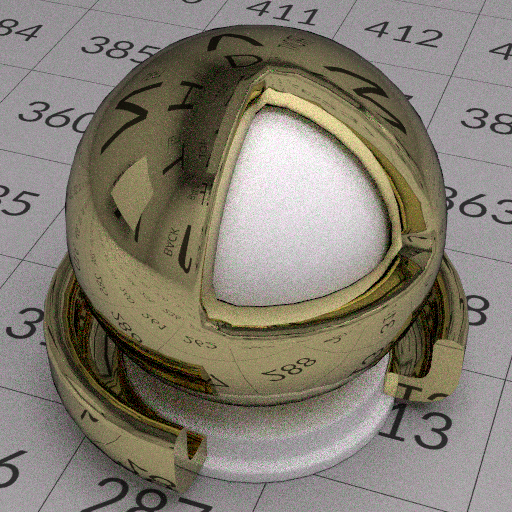
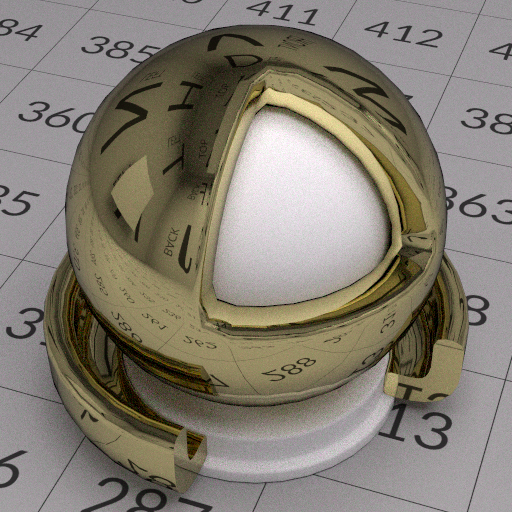
feat(render): expose progressive quality settings

diff --git a/src/hydra/render_pass.cpp b/src/hydra/render_pass.cpp
@@ -3,6 +3,7 @@
 #include "render_buffer.h"
 
 #include "pxr/imaging/hd/renderPassState.h"
+#include "pxr/imaging/hd/renderDelegate.h"
 #include "pxr/imaging/hd/tokens.h"
 #include "pxr/base/gf/matrix4d.h"
 #include "pxr/base/gf/vec3d.h"
@@ -67,9 +68,11 @@ std::vector<float> UpscaleNearest(
 
 HdCodexRenderPass::HdCodexRenderPass(HdRenderIndex* index,
                                      const HdRprimCollection& collection,
+                                     HdRenderDelegate* renderDelegate,
                                      hdcodex::VersionedScene* scene,
                                      hdcodex::VulkanPathTracer* pathTracer)
-    : HdRenderPass(index, collection), _scene(scene), _pathTracer(pathTracer)
+    : HdRenderPass(index, collection), _renderDelegate(renderDelegate),
+      _scene(scene), _pathTracer(pathTracer)
 {
 }
 
@@ -83,7 +86,25 @@ bool HdCodexRenderPass::IsConverged() const
 void HdCodexRenderPass::_Execute(const HdRenderPassStateSharedPtr& renderPassState,
                                  const TfTokenVector& /*renderTags*/)
 {
-    constexpr unsigned int targetSamples = 32;
+    const unsigned int settingsVersion = _renderDelegate
+        ? _renderDelegate->GetRenderSettingsVersion() : 0U;
+    const unsigned int targetSamples = static_cast<unsigned int>(std::clamp(
+        _renderDelegate
+            ? _renderDelegate->GetRenderSetting<int>(
+                TfToken("samplesPerPixel"), 128)
+            : 128,
+        1, 4096));
+    const unsigned int productionBounces = static_cast<unsigned int>(std::clamp(
+        _renderDelegate
+            ? _renderDelegate->GetRenderSetting<int>(TfToken("maxBounces"), 8)
+            : 8,
+        1, 12));
+    const unsigned int samplesPerUpdate = static_cast<unsigned int>(std::clamp(
+        _renderDelegate
+            ? _renderDelegate->GetRenderSetting<int>(
+                TfToken("samplesPerUpdate"), 8)
+            : 8,
+        1, 64));
     const auto revision = _scene->PublishedRevision();
     const hdcodex::PathTracerCamera camera = MakeCamera(renderPassState);
     HdCodexRenderBuffer* colorBuffer = nullptr;
@@ -115,6 +136,7 @@ void HdCodexRenderPass::_Execute(const HdRenderPassStateSharedPtr& renderPassSta
     const unsigned int height = colorBuffer->GetHeight();
     const bool cameraChanged = _hasCamera && !(camera == _lastCamera);
     const bool reset = _lastRevision != revision || !_hasCamera ||
+        _lastSettingsVersion != settingsVersion ||
         cameraChanged || width != _lastWidth || height != _lastHeight;
     if (reset) {
         try {
@@ -147,12 +169,11 @@ void HdCodexRenderPass::_Execute(const HdRenderPassStateSharedPtr& renderPassSta
     } else if (_pathTracer->HasGeometry() && width > 0 && height > 0 &&
                _sampleIndex < targetSamples) {
         try {
-            constexpr unsigned int samplesPerDispatch = 8U;
             const unsigned int sampleCount = std::min(
-                samplesPerDispatch, targetSamples - _sampleIndex);
+                samplesPerUpdate, targetSamples - _sampleIndex);
             colorBuffer->WriteFloat4(
                 _pathTracer->Render(camera, width, height, _sampleIndex,
-                                    8U, sampleCount));
+                                    productionBounces, sampleCount));
             _sampleIndex += sampleCount;
         } catch (const std::exception& error) {
             TF_WARN("hdCodex Vulkan path trace failed: %s", error.what());
@@ -175,6 +196,7 @@ void HdCodexRenderPass::_Execute(const HdRenderPassStateSharedPtr& renderPassSta
     _lastHeight = height;
     _hasCamera = true;
     _lastRevision = revision;
+    _lastSettingsVersion = settingsVersion;
 }
 
 PXR_NAMESPACE_CLOSE_SCOPE

diff --git a/src/hydra/render_delegate.cpp b/src/hydra/render_delegate.cpp
@@ -19,6 +19,9 @@
 #include "pxr/imaging/hd/resourceRegistry.h"
 #include "pxr/imaging/hd/tokens.h"
 
+#include <algorithm>
+#include <cstdlib>
+
 PXR_NAMESPACE_OPEN_SCOPE
 namespace {
 
@@ -31,6 +34,16 @@ const TfTokenVector SupportedSprims = {
     HdPrimTypeTokens->extComputation,
 };
 const TfTokenVector SupportedBprims = {HdPrimTypeTokens->renderBuffer};
+
+int EnvironmentInteger(const char* name, int fallback, int minimum, int maximum)
+{
+    const char* value = std::getenv(name);
+    if (!value || !*value) return fallback;
+    char* end = nullptr;
+    const long parsed = std::strtol(value, &end, 10);
+    if (!end || *end != '\0') return fallback;
+    return std::clamp(static_cast<int>(parsed), minimum, maximum);
+}
 
 } // namespace
 
@@ -45,6 +58,15 @@ HdCodexRenderDelegate::~HdCodexRenderDelegate() = default;
 
 void HdCodexRenderDelegate::Initialize(const HdRenderSettingsMap& settingsMap)
 {
+    HdRenderDelegate::SetRenderSetting(
+        TfToken("samplesPerPixel"), VtValue(EnvironmentInteger(
+            "HDCODEX_SAMPLES_PER_PIXEL", 128, 1, 4096)));
+    HdRenderDelegate::SetRenderSetting(
+        TfToken("maxBounces"), VtValue(EnvironmentInteger(
+            "HDCODEX_MAX_BOUNCES", 8, 1, 12)));
+    HdRenderDelegate::SetRenderSetting(
+        TfToken("samplesPerUpdate"), VtValue(EnvironmentInteger(
+            "HDCODEX_SAMPLES_PER_UPDATE", 8, 1, 64)));
 #if defined(HDCODEX_HAS_VULKAN)
     _vulkan = std::make_unique<hdcodex::VulkanContext>();
 #endif
@@ -76,7 +98,7 @@ HdRenderPassSharedPtr HdCodexRenderDelegate::CreateRenderPass(
     HdRenderIndex* index, const HdRprimCollection& collection)
 {
     return std::make_shared<HdCodexRenderPass>(
-        index, collection, &_scene,
+        index, collection, this, &_scene,
 #if defined(HDCODEX_HAS_VULKAN)
         _pathTracer.get()
 #else
@@ -164,6 +186,16 @@ HdAovDescriptor HdCodexRenderDelegate::GetDefaultAovDescriptor(const TfToken& na
         return {HdFormatFloat32, false, VtValue(1.0F)};
     }
     return {};
+}
+
+HdRenderSettingDescriptorList
+HdCodexRenderDelegate::GetRenderSettingDescriptors() const
+{
+    return {
+        {"Samples per Pixel", TfToken("samplesPerPixel"), VtValue(128)},
+        {"Maximum Bounces", TfToken("maxBounces"), VtValue(8)},
+        {"Samples per Update", TfToken("samplesPerUpdate"), VtValue(8)},
+    };
 }
 
 PXR_NAMESPACE_CLOSE_SCOPE

diff --git a/src/hydra/render_pass.h b/src/hydra/render_pass.h
@@ -12,6 +12,7 @@ class HDCODEX_API HdCodexRenderPass final : public HdRenderPass {
 public:
     HdCodexRenderPass(HdRenderIndex* index,
                       const HdRprimCollection& collection,
+                      HdRenderDelegate* renderDelegate,
                       hdcodex::VersionedScene* scene,
                       hdcodex::VulkanPathTracer* pathTracer);
     ~HdCodexRenderPass() override;
@@ -23,6 +24,7 @@ protected:
                   const TfTokenVector& renderTags) override;
 
 private:
+    HdRenderDelegate* _renderDelegate;
     hdcodex::VersionedScene* _scene;
     hdcodex::VulkanPathTracer* _pathTracer;
     hdcodex::VersionedScene::Revision _lastRevision{~hdcodex::VersionedScene::Revision{0}};
@@ -30,6 +32,7 @@ private:
     unsigned int _lastWidth{0};
     unsigned int _lastHeight{0};
     unsigned int _sampleIndex{0};
+    unsigned int _lastSettingsVersion{~0U};
     bool _hasCamera{false};
     bool _converged{false};
 };

diff --git a/src/hydra/render_delegate.h b/src/hydra/render_delegate.h
@@ -48,6 +48,7 @@ public:
     void DestroyBprim(HdBprim* bprim) override;
     void CommitResources(HdChangeTracker* tracker) override;
     HdAovDescriptor GetDefaultAovDescriptor(const TfToken& name) const override;
+    HdRenderSettingDescriptorList GetRenderSettingDescriptors() const override;
 
 private:
     void Initialize(const HdRenderSettingsMap& settingsMap);

diff --git a/gallery.md b/gallery.md
@@ -2,6 +2,7 @@
 ## Gallery
 
 These images are versioned visual baselines, not golden-reference renders.
+Timings use the default 128 spatial samples in 16 progressive updates.
 The StandardShaderBall variants exercise OpenPBR glass, metal, subsurface, and
 image-texture lowering. KitchenSet remains in its authored Z-up coordinates and
 exercises the unbound-mesh `displayColor` fallback. CollectiveProject exercises
@@ -15,7 +16,7 @@ both intentional improvements and regressions as those paths evolve.
 ```cmd
 .\render_codex.bat --imageWidth 512 --camera PhysCamera001 gallery\intel_sponza.usda gallery\intel_sponza.jpg
 ```
-**Render Time:** 9.15 seconds
+**Render Time:** 13.22 seconds
 
 ![Intel Sponza Base Scene](gallery/intel_sponza.jpg)
 
@@ -26,7 +27,7 @@ both intentional improvements and regressions as those paths evolve.
 ```cmd
 .\render_codex.bat --imageWidth 512 --camera renderCam gallery\chess_board.usda gallery\chess_board.jpg
 ```
-**Render Time:** 10.01 seconds
+**Render Time:** 15.06 seconds
 
 ![OpenChessSet](gallery/chess_board.jpg)
 
@@ -37,7 +38,7 @@ both intentional improvements and regressions as those paths evolve.
 ```cmd
 .\render_codex.bat --imageWidth 512 --camera camera gallery\shader_ball_bubblegum.usda gallery\shader_ball_bubblegum.jpg
 ```
-**Render Time:** 4.59 seconds
+**Render Time:** 6.86 seconds
 
 ![StandardShaderBall BubbleGum](gallery/shader_ball_bubblegum.jpg)
 
@@ -48,7 +49,7 @@ both intentional improvements and regressions as those paths evolve.
 ```cmd
 .\render_codex.bat --imageWidth 512 --camera camera gallery\shader_ball_glass.usda gallery\shader_ball_glass.jpg
 ```
-**Render Time:** 4.53 seconds
+**Render Time:** 6.70 seconds
 
 ![StandardShaderBall Glass](gallery/shader_ball_glass.jpg)
 
@@ -59,7 +60,7 @@ both intentional improvements and regressions as those paths evolve.
 ```cmd
 .\render_codex.bat --imageWidth 512 --camera camera gallery\shader_ball_gold.usda gallery\shader_ball_gold.jpg
 ```
-**Render Time:** 4.55 seconds
+**Render Time:** 6.62 seconds
 
 ![StandardShaderBall Gold](gallery/shader_ball_gold.jpg)
 
@@ -70,7 +71,7 @@ both intentional improvements and regressions as those paths evolve.
 ```cmd
 .\render_codex.bat --imageWidth 512 --camera renderCam gallery\pixar_kitchen.usda gallery\pixar_kitchen.jpg
 ```
-**Render Time:** 1.55 seconds
+**Render Time:** 2.68 seconds
 
 ![Pixar's KitchenSet](gallery/pixar_kitchen.jpg)
 
@@ -81,6 +82,6 @@ both intentional improvements and regressions as those paths evolve.
 ```cmd
 .\render_codex.bat --imageWidth 512 --purposes render --camera mono gallery\collectiveproject001.usda gallery\collectiveproject001.jpg
 ```
-**Render Time:** 3.77 seconds
+**Render Time:** 5.32 seconds
 
 ![Collective Project 001](gallery/collectiveproject001.jpg)

diff --git a/README.md b/README.md
@@ -88,10 +88,13 @@ asset-input and display-output format, not the path-throughput representation.
   full resolution when motion stops.
 - Eight progressive samples are evaluated per compute dispatch, removing most
   command submissions, fence waits, and full-image GPU readbacks.
+- Production rendering defaults to 128 spatial samples, exposed as 16 visible
+  eight-sample refinement updates. Hydra clients can change `samplesPerPixel`,
+  `maxBounces`, and `samplesPerUpdate` without rebuilding the delegate.
 - Static scene and accumulation data use device-local buffers; staging resources,
   command buffers, fences, descriptor sets, and shader-cache entries are reused.
 - The checked-in 512 px Gold shader-ball benchmark dropped from 16.61 s to about
-  5 s on the development machine before the final gallery refresh.
+  6.6 s at the cleaner 128-sample default.
 
 ## Current architecture and limits
 
@@ -141,6 +144,20 @@ All USD-facing scripts call `setup_usd_env.bat`, including Python `pxr` tools.
 The scripts do not use Houdini libraries. `render_codex.bat` accepts normal
 `usdrecord` arguments and always selects the Codex delegate with camera-lighting
 disabled so authored or fallback lighting is tested.
+
+For command-line tools that do not expose Hydra settings directly, set the
+equivalent environment variables before launching the render:
+
+```bat
+set HDCODEX_SAMPLES_PER_PIXEL=512
+set HDCODEX_SAMPLES_PER_UPDATE=8
+set HDCODEX_MAX_BOUNCES=10
+render_codex.bat --imageWidth 1024 scene.usda output.exr
+```
+
+Valid sample targets are 1–4096, update batches are 1–64, and path depth is
+1–12. Larger sample targets continue refining the same estimator; they do not
+change materials, lighting, or spectral reconstruction.
 
 ## Regression gallery
 

diff --git a/docs/architecture.md b/docs/architecture.md
@@ -84,8 +84,8 @@ azimuth. This keeps `usdrecord --disableCameraLight` useful for unlit assets
 without mixing fallback illumination into authored-light scenes. The Y-up or
 Z-up fallback axis is inferred once from the initial camera; the sky and sun
 then remain fixed in world space as the camera moves. The renderer
-evaluates eight progressive samples per Vulkan dispatch and converges at 32
-spatial samples. Each spatial path is evaluated as a correlated three-wavelength
+evaluates eight progressive samples per Vulkan dispatch and converges at 128
+spatial samples by default. Each spatial path is evaluated as a correlated three-wavelength
 packet with deterministic spectral stratification.
 Scene or camera changes reset accumulation. Geometry is flattened into one
 world-space BLAS for this first functional path; per-mesh BLAS caching and TLAS
